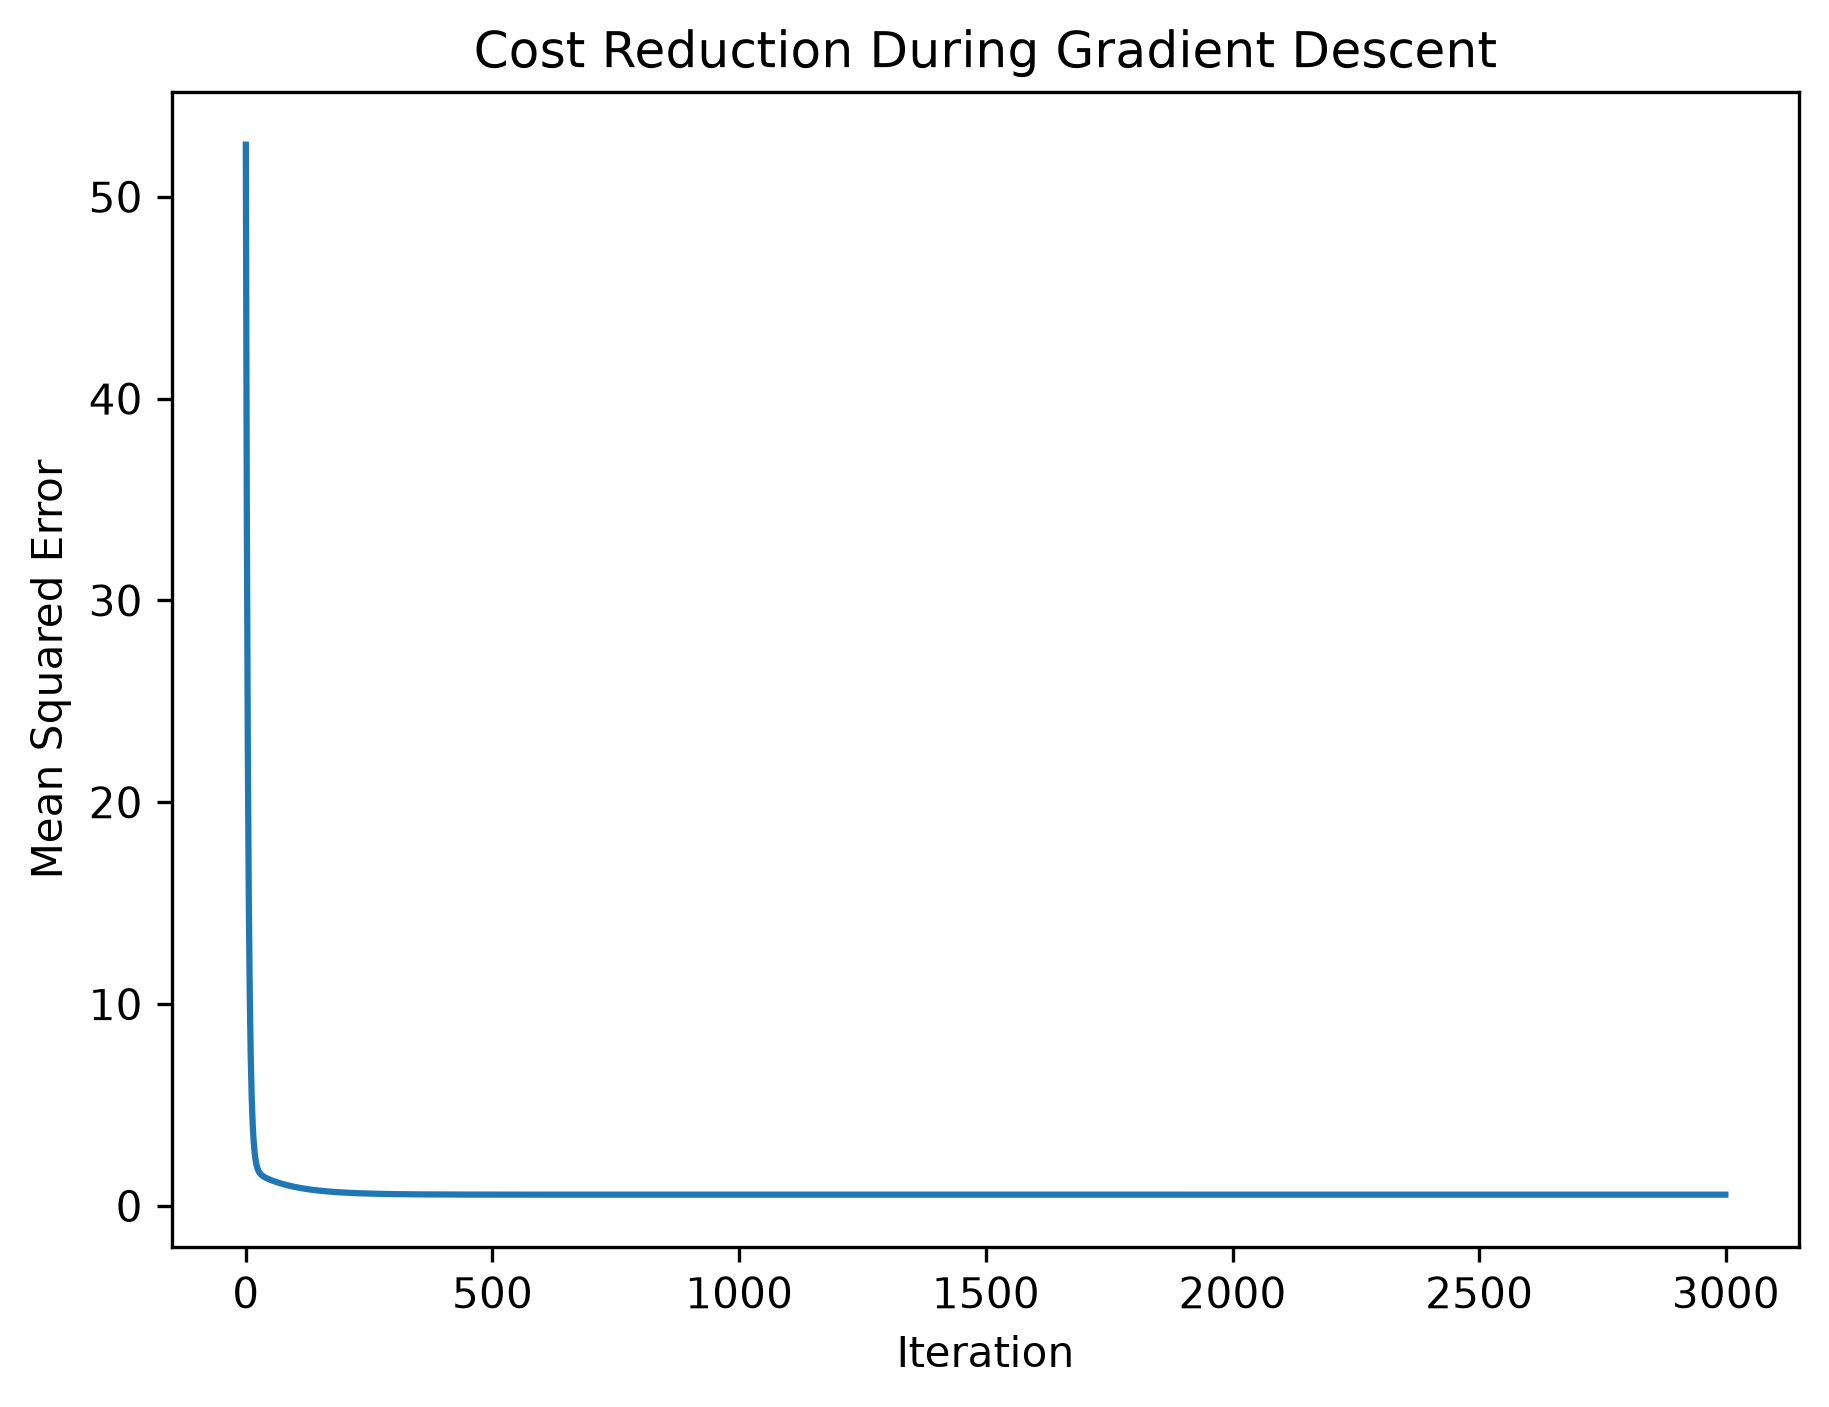
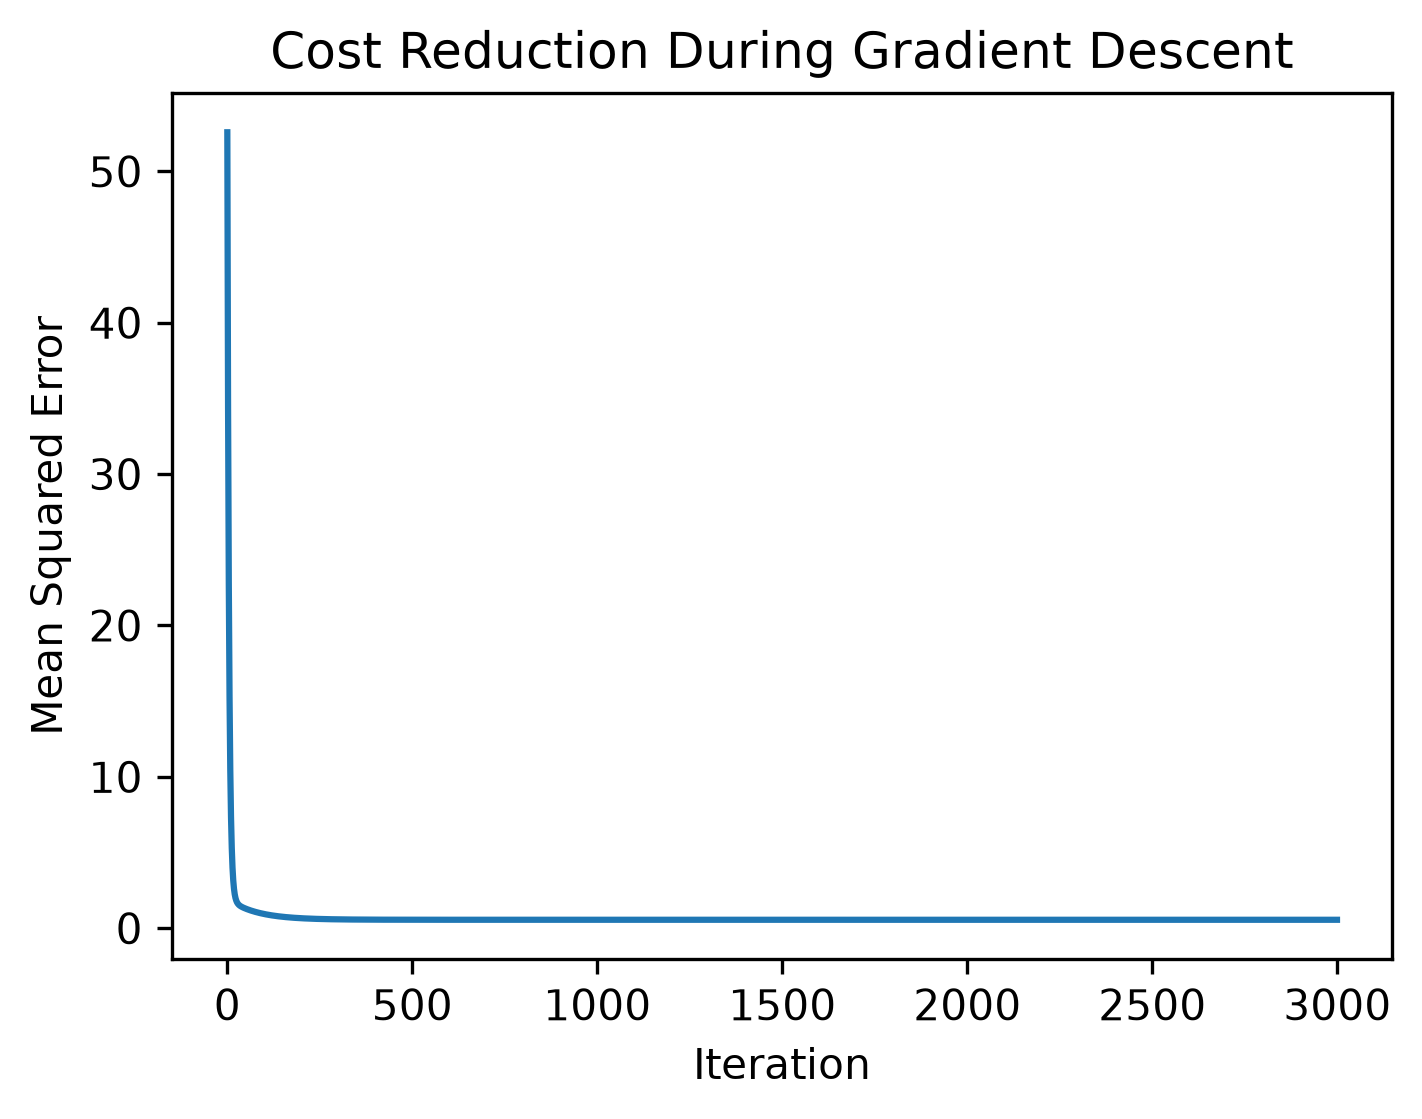
fix fig size 2

Changed region(s): [[0.0, 0.0, 0.9902, 0.9723]]

diff --git a/src/linear_regression_manual.py b/src/linear_regression_manual.py
@@ -116,7 +116,7 @@ plt.title("Cost Reduction During Gradient Descent")
 
 plt.savefig(
     "outputs/figures/manual_cost_reduction.png",
-    dpi=300,
+    dpi=150,
     bbox_inches="tight"
 )
 